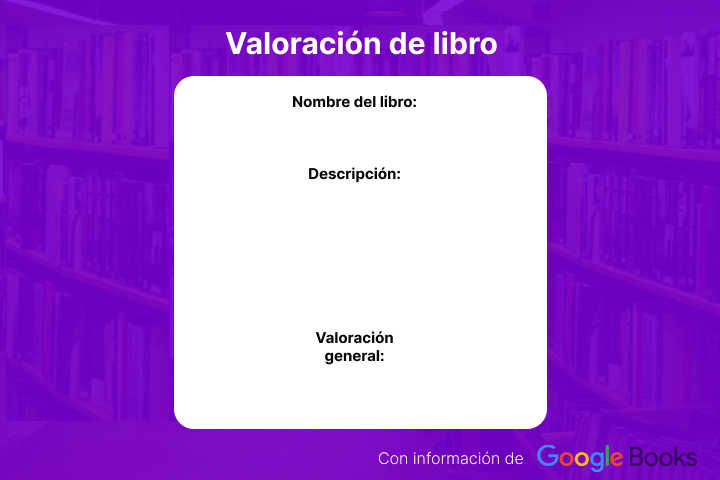
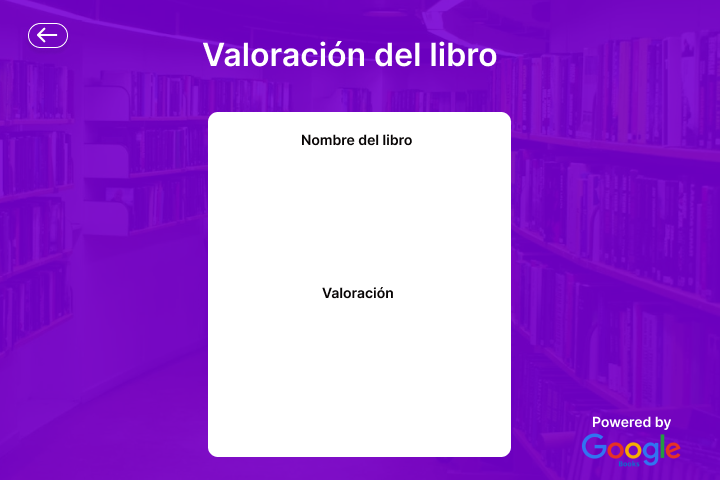
Pantalla Valoración Libro arreglada

diff --git a/src/main/java/ui/ValoracionLibroFrm.java b/src/main/java/ui/ValoracionLibroFrm.java
@@ -37,37 +37,45 @@ public class ValoracionLibroFrm extends javax.swing.JFrame {
     // <editor-fold defaultstate="collapsed" desc="Generated Code">//GEN-BEGIN:initComponents
     private void initComponents() {
 
-        descripcionLabel = new javax.swing.JLabel();
+        btnVolver = new javax.swing.JButton();
         nombreLibroLabel1 = new javax.swing.JLabel();
         valoracionGeneralLabel1 = new javax.swing.JLabel();
         jLabel1 = new javax.swing.JLabel();
 
-        setDefaultCloseOperation(javax.swing.WindowConstants.EXIT_ON_CLOSE);
+        setDefaultCloseOperation(javax.swing.WindowConstants.DO_NOTHING_ON_CLOSE);
         getContentPane().setLayout(new org.netbeans.lib.awtextra.AbsoluteLayout());
 
-        descripcionLabel.setBackground(new java.awt.Color(0, 0, 0));
-        descripcionLabel.setFont(new java.awt.Font("Monospaced", 1, 18)); // NOI18N
-        descripcionLabel.setHorizontalAlignment(javax.swing.SwingConstants.CENTER);
-        descripcionLabel.setText("Descripción");
-        getContentPane().add(descripcionLabel, new org.netbeans.lib.awtextra.AbsoluteConstraints(190, 200, 330, 110));
+        btnVolver.setBorder(null);
+        btnVolver.setContentAreaFilled(false);
+        btnVolver.addActionListener(new java.awt.event.ActionListener() {
+            public void actionPerformed(java.awt.event.ActionEvent evt) {
+                btnVolverActionPerformed(evt);
+            }
+        });
+        getContentPane().add(btnVolver, new org.netbeans.lib.awtextra.AbsoluteConstraints(30, 20, 40, 30));
 
         nombreLibroLabel1.setBackground(new java.awt.Color(0, 0, 0));
         nombreLibroLabel1.setFont(new java.awt.Font("Monospaced", 1, 18)); // NOI18N
         nombreLibroLabel1.setHorizontalAlignment(javax.swing.SwingConstants.CENTER);
         nombreLibroLabel1.setText("Nombre");
-        getContentPane().add(nombreLibroLabel1, new org.netbeans.lib.awtextra.AbsoluteConstraints(270, 130, 170, -1));
+        getContentPane().add(nombreLibroLabel1, new org.netbeans.lib.awtextra.AbsoluteConstraints(270, 180, 170, -1));
 
         valoracionGeneralLabel1.setBackground(new java.awt.Color(0, 0, 0));
         valoracionGeneralLabel1.setFont(new java.awt.Font("Monospaced", 1, 18)); // NOI18N
         valoracionGeneralLabel1.setHorizontalAlignment(javax.swing.SwingConstants.CENTER);
         valoracionGeneralLabel1.setText("Valoración");
-        getContentPane().add(valoracionGeneralLabel1, new org.netbeans.lib.awtextra.AbsoluteConstraints(270, 380, 170, -1));
+        getContentPane().add(valoracionGeneralLabel1, new org.netbeans.lib.awtextra.AbsoluteConstraints(270, 360, 170, -1));
 
         jLabel1.setIcon(new javax.swing.ImageIcon(getClass().getResource("/ValoracionLibro.png"))); // NOI18N
         getContentPane().add(jLabel1, new org.netbeans.lib.awtextra.AbsoluteConstraints(0, 0, -1, -1));
 
         pack();
     }// </editor-fold>//GEN-END:initComponents
+
+    private void btnVolverActionPerformed(java.awt.event.ActionEvent evt) {//GEN-FIRST:event_btnVolverActionPerformed
+       this.dispose();
+       new GestionLibrosFrm().setVisible(true);
+    }//GEN-LAST:event_btnVolverActionPerformed
 
     
     public float solicitaValoracion(LibroEntity libro){
@@ -77,7 +85,7 @@ public class ValoracionLibroFrm extends javax.swing.JFrame {
     }
 
     // Variables declaration - do not modify//GEN-BEGIN:variables
-    private javax.swing.JLabel descripcionLabel;
+    private javax.swing.JButton btnVolver;
     private javax.swing.JLabel jLabel1;
     private javax.swing.JLabel nombreLibroLabel1;
     private javax.swing.JLabel valoracionGeneralLabel1;

diff --git a/src/main/java/ui/GestionLibrosFrm.java b/src/main/java/ui/GestionLibrosFrm.java
@@ -268,6 +268,8 @@ public class GestionLibrosFrm extends javax.swing.JFrame {
           if (selectedRow!=-1){
               LibroEntity libro = bibliotecario.obtieneLibro((long) librosTable.getValueAt(selectedRow, 0));
               new ValoracionLibroFrm(libro).setVisible(true); 
+          }else{
+              JOptionPane.showMessageDialog(this, "Seleccione un libro");
           }
         
     }//GEN-LAST:event_btnSolicitaValoracionActionPerformed

diff --git a/src/main/java/demo/Demo.java b/src/main/java/demo/Demo.java
@@ -31,10 +31,10 @@ public class Demo {
         UsuarioEntity user = new UsuarioEntity();
         new LoginFrm().setVisible(true);
 
-        
-        BibliotecarioEntity b = new BibliotecarioEntity(1L, "Raul", "Luna", "99");
-        b.create(b);
-    
+//        
+//        BibliotecarioEntity b = new BibliotecarioEntity(1L, "Raul", "Luna", "99");
+//        b.create(b);
+//    
         
         
    
